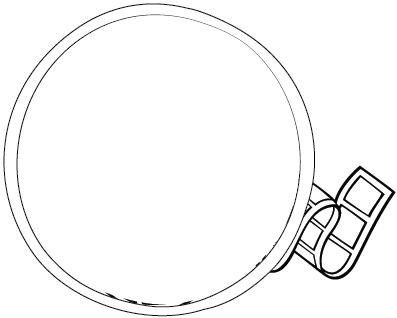
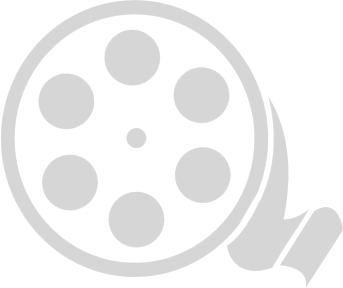
updated graphics and empty profile ui. Added delete-credit buttons

diff --git a/app/assets/stylesheets/modules/_users.css.scss b/app/assets/stylesheets/modules/_users.css.scss
@@ -66,7 +66,7 @@ $header-height: 400px;
     background: -webkit-linear-gradient(top, rgba(0,0,0,1) 0%,rgba(0,0,0,0.8) 26%,rgba(0,0,0,0) 100%); /* Chrome10-25,Safari5.1-6 */
     background: linear-gradient(to bottom, rgba(0,0,0,1) 0%,rgba(0,0,0,0.8) 26%,rgba(0,0,0,0) 100%); /* W3C, IE10+, FF16+, Chrome26+, Opera12+, Safari7+ */
     filter: progid:DXImageTransform.Microsoft.gradient( startColorstr='#000000', endColorstr='#00000000',GradientType=0 ); /* IE6-9 */
-  height: 100px;
+  height: 80px;
   box-shadow: none;
   border: none;
   z-index: 3;
@@ -156,6 +156,9 @@ $header-height: 400px;
     font-size: $base-font-size;
     line-height: $base-line-height*1.1;
   }
+  form {
+    margin-left: 40px;
+  }
 }
 
 #contact {
@@ -232,6 +235,54 @@ li.user-entourage-item {
     color: lighten($lt-gray, 10%);
     text-decoration: underline;
   }
+}
+
+.blank-user {
+  background-image: url(profile-avatar-blank.png);
+}
+
+.empty-profile {
+  padding: 0;
+}
+
+.empty-profile-reel {
+  height: 160px;
+  width: 160px;
+  display: inline-block;
+  background: url(reel-teaser-border.png) no-repeat center;
+  background-size: 130px;
+}
+
+.empty-profile-avatar {
+  @extend .empty-profile-reel;
+  width: 155px;
+  background: url(profile-avatar-blank.png) no-repeat center;
+  background-size: 80px;
+}
+
+.update-bio {
+  float: right;
+  padding: 5px 20px;
+  border-radius: 20px;
+}
+
+.new-user-cta {
+  width: 35%;
+  margin-left: auto;
+  margin-right: auto;
+  small, p {
+    font-style: italic;
+    margin-top: 20px;
+  }
+}
+
+.new-user-new-reel{
+  margin-top: 40px;
+  background-color: $turq;
+  color: white;
+  padding: 10px;
+  border-radius: 20px;
+  font-size: $base-font-size*1.5;
 }
 
 @media (max-width: 767px) {

diff --git a/app/assets/stylesheets/modules/_reels.css.scss b/app/assets/stylesheets/modules/_reels.css.scss
@@ -350,6 +350,10 @@ li.reel-credit-item {
   }
 }
 
+.credit-delete{
+  float: right;
+}
+
 .credit-avatar {
   height: 20px;
   width: 20px;
@@ -365,6 +369,9 @@ li.reel-credit-item {
   color: lighten($lt-gray, 10%);
   a {
     color: lighten($lt-gray, 10%);
+    &:hover {
+      color: $lt-turq;
+    }
   }
 }
 

diff --git a/app/assets/stylesheets/modules/pages.scss b/app/assets/stylesheets/modules/pages.scss
@@ -50,8 +50,9 @@
     margin-top: 20px;
     padding: 40px 24px 50px;
     text-align: left;
+    height: 150px;
     .fa {
-      padding-left: 38px;
+      padding-left: 35.5px;
     }
   }
 }

diff --git a/app/controllers/credits_controller.rb b/app/controllers/credits_controller.rb
@@ -33,13 +33,13 @@ class CreditsController < ApplicationController
     return render :new unless @credit.save
 
     flash[:notice] = "Credit added! Waiting for the credit receiver to accept"
-    redirect_to reel_credits_path(reel.id)
+    redirect_to reel_path(reel.id)
   end
 
   def destroy
     credit = reel.credits.where(id: params[:id]).first
     flash[:notice] = destroy_credit(credit)
-    redirect_to reel_credits_path(reel.id)
+    redirect_to reel_path(reel.id)
   end
 
   def destroy_credit(credit)
